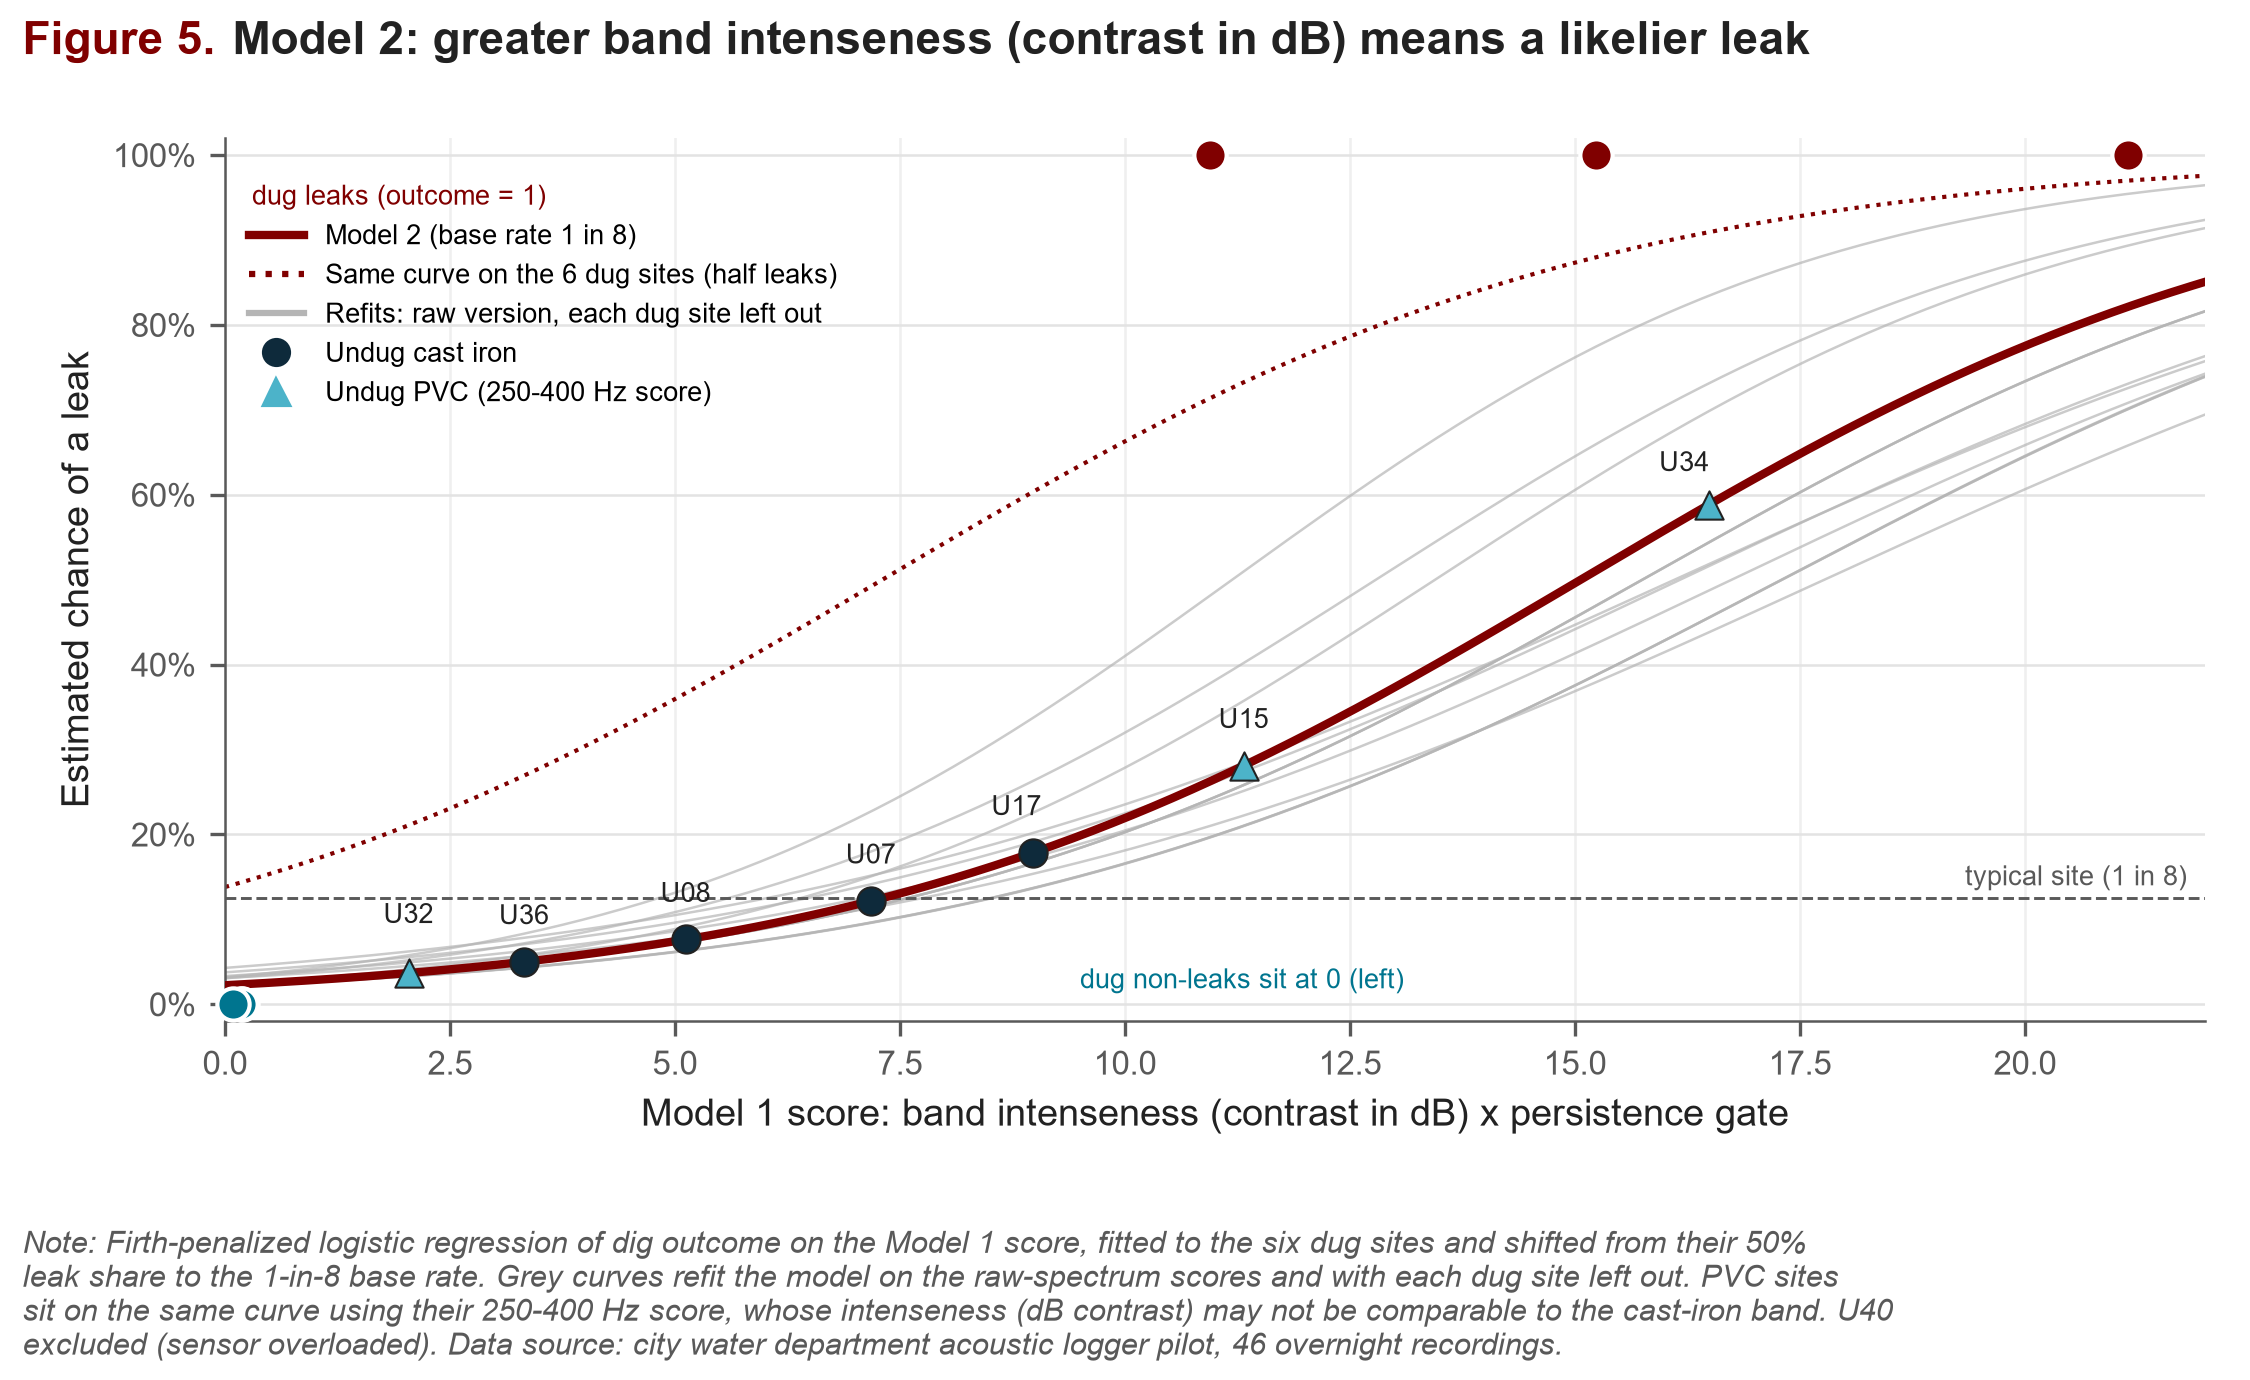
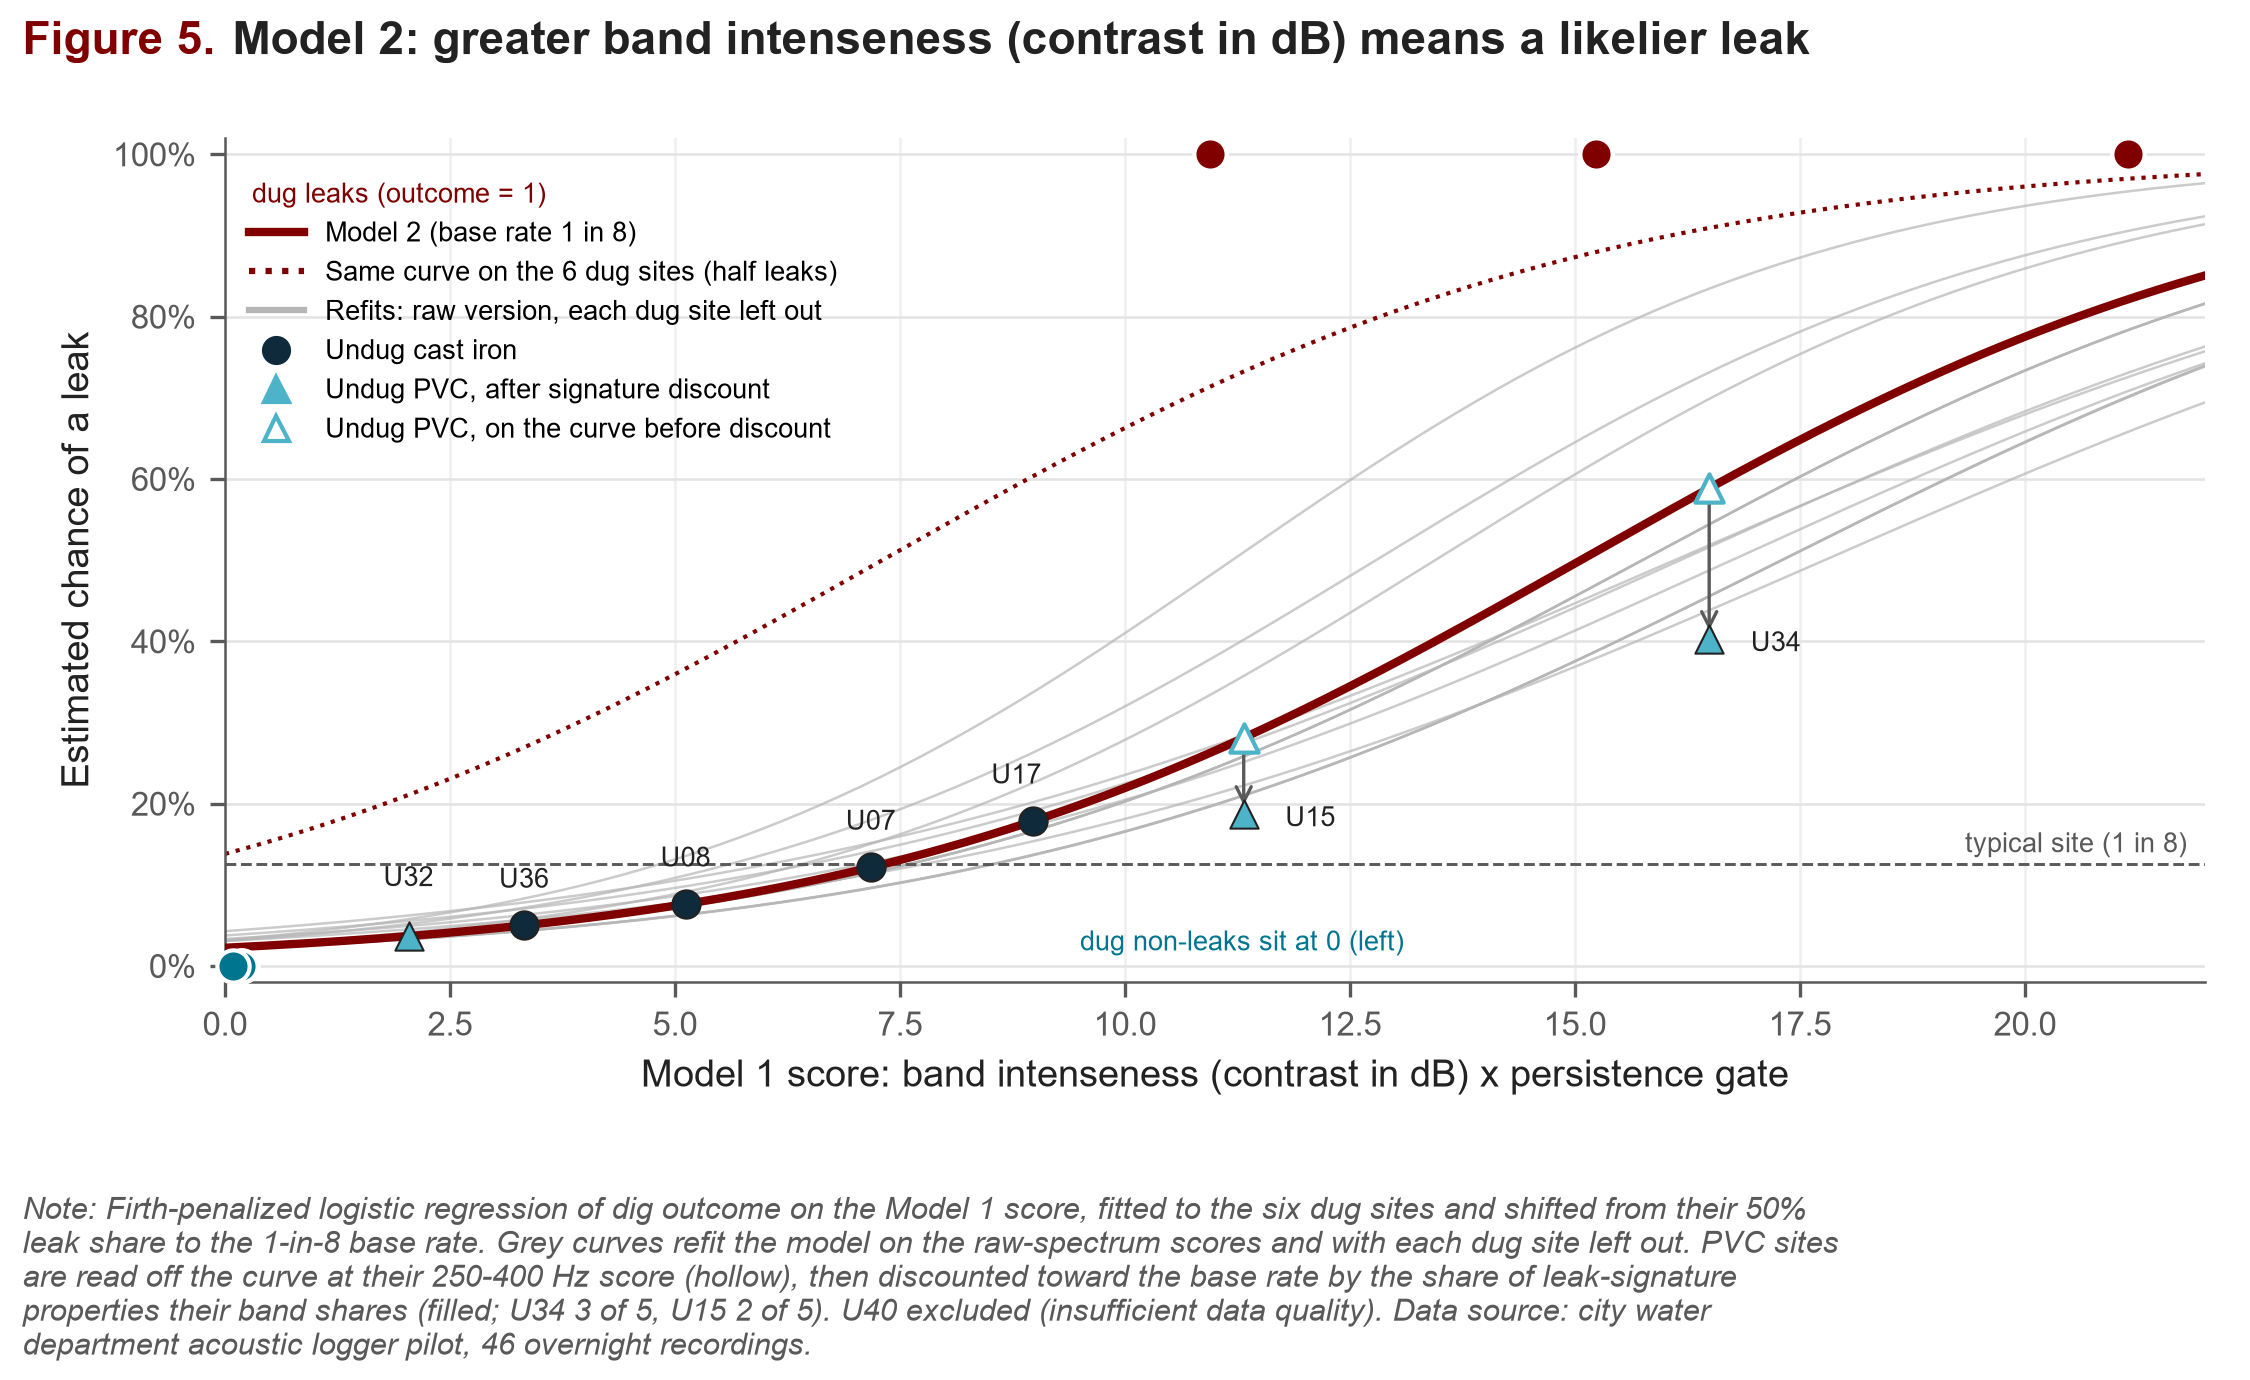
Apply PVC signature discount to Model 2; update Figures 5 and 6
- Model 2 PVC probabilities discounted by the Model 1 signature-match
  weight (U34 0.6, U15 0.4); undiscounted curve values kept
- Figure 5 shows PVC on-curve (hollow) and discounted (filled) values
- Figure 6 title, legend, and caption reflect the graded Model 1 and the
  shared PVC discount

diff --git a/src/plot_model2_results.py b/src/plot_model2_results.py
@@ -43,8 +43,8 @@ PIPE_COLORS = {'cast_iron': HEALTH_LAB_NAVY, 'pvc': HEALTH_LAB_LIGHT_TEAL}
 PIPE_NAMES = {'cast_iron': 'cast iron', 'pvc': 'PVC'}
 EXTRA_COMPARISON_SITES = ('U32', 'U35')
 S_CURVE_LABEL_OFFSETS = {'U32': (0, 12), 'U36': (0, 9), 'U08': (0, 9),
-                         'U07': (0, 9), 'U17': (-4, 9), 'U15': (0, 9),
-                         'U34': (-6, 8)}
+                         'U07': (0, 9), 'U17': (-4, 9), 'U15': (16, -3),
+                         'U34': (16, -3)}
 
 
 def _save(fig, file_stem):
@@ -93,6 +93,15 @@ def plot_s_curve(fits, scores, model2):
             va='bottom',
             color=LABEL_COLORS[NO_LEAK_LABEL])
     band_sites = model2[model2['score'] > 1]
+    for record in band_sites[band_sites['signature_weight'] < 1].itertuples():
+        ax.scatter(record.score, record.curve_probability, s=46,
+                   marker=PIPE_MARKERS[record.ranking], facecolor='white',
+                   edgecolor=PIPE_COLORS[record.ranking], linewidth=1,
+                   zorder=5)
+        ax.annotate('', xy=(record.score, record.confidence),
+                    xytext=(record.score, record.curve_probability),
+                    arrowprops=dict(arrowstyle='->', color=TEXT_GREY,
+                                    linewidth=0.8), zorder=4)
     for record in band_sites.itertuples():
         ax.scatter(record.score, record.confidence, s=46,
                    marker=PIPE_MARKERS[record.ranking],
@@ -119,7 +128,10 @@ def plot_s_curve(fits, scores, model2):
         Line2D([], [], marker='o', linestyle='', color=HEALTH_LAB_NAVY,
                label='Undug cast iron'),
         Line2D([], [], marker='^', linestyle='', color=HEALTH_LAB_LIGHT_TEAL,
-               label='Undug PVC (250-400 Hz score)')]
+               label='Undug PVC, after signature discount'),
+        Line2D([], [], marker='^', linestyle='', markerfacecolor='white',
+               color=HEALTH_LAB_LIGHT_TEAL,
+               label='Undug PVC, on the curve before discount')]
     ax.legend(handles=handles, loc='upper left', bbox_to_anchor=(0.0, 0.93),
               fontsize=6.5)
     bottom = add_title_and_note(
@@ -128,10 +140,11 @@ def plot_s_curve(fits, scores, model2):
         'Firth-penalized logistic regression of dig outcome on the Model 1 '
         'score, fitted to the six dug sites and shifted from their 50% leak '
         'share to the 1-in-8 base rate. Grey curves refit the model on the '
-        'raw-spectrum scores and with each dug site left out. PVC sites sit '
-        'on the same curve using their 250-400 Hz score, whose intenseness '
-        '(dB contrast) may not be comparable to the cast-iron band. U40 '
-        'excluded (sensor overloaded).')
+        'raw-spectrum scores and with each dug site left out. PVC sites are '
+        'read off the curve at their 250-400 Hz score (hollow), then '
+        'discounted toward the base rate by the share of leak-signature '
+        'properties their band shares (filled; U34 3 of 5, U15 2 of 5). U40 '
+        'excluded (insufficient data quality).')
     fig.subplots_adjust(top=0.9, bottom=bottom, left=0.1, right=0.98)
     return _save(fig, 'model2_fig5_s_curve')
 
@@ -172,20 +185,21 @@ def plot_model_comparison(model1, model2):
     ax.grid(axis='x', color='#EFEFEF')
     handles = [
         Line2D([], [], marker='o', color=HEALTH_LAB_NAVY,
-               label='Model 1: any persistent band counts the same'),
+               label='Model 1: presence first, then band quality'),
         Line2D([], [], marker='D', color=UCHICAGO_MAROON,
                label='Model 2: chance rises with intenseness (dB contrast)')]
     ax.legend(handles=handles, loc='lower right', fontsize=6.5)
     bottom = add_title_and_note(
-        fig, 6, 'The two models agree on the order, not on how sure to be',
+        fig, 6, 'Both models flag the same sites but rank them differently',
         'Markers are each model\'s main estimate; bars are its range across '
-        'analysis choices; dashed line is the 1-in-8 base rate. Model 1 '
-        'gives every persistent-band site the same chance (43%). Model 2 '
-        'grades them by band intenseness (contrast: band power minus the '
-        'mean of its neighboring bands, in dB): only U34, U15 and U17 stay '
+        'analysis choices; dashed line is the 1-in-8 base rate. Both apply '
+        'the same PVC signature discount. Model 1 gives every cast-iron site '
+        'with a persistent band 36-50% and grades within that by steadiness '
+        '(weighted 0.6) and intenseness (0.4), so those four sites lead. '
+        'Model 2 grades by intenseness alone (contrast in dB): U34 leads, '
+        'U17 and U15 stay '
         'above the base rate, U07 sits at it, and U08 and U36 fall below '
-        'it. Sites without a '
-        'persistent band are low under both models.')
+        'it. Sites without a persistent band are low under both models.')
     fig.subplots_adjust(top=0.9, bottom=bottom, left=0.25, right=0.98)
     return _save(fig, 'model2_fig6_model_comparison')
 

diff --git a/src/run_model_logistic.py b/src/run_model_logistic.py
@@ -13,7 +13,10 @@ log(prior odds / sample odds) so predictions refer to the 1-in-8 base rate
 Fits: {noise-floor-subtracted, raw} x {all 6 dug sites, each left out} =
 14 fits. Point estimate = full noise-floor fit; range = min-max across all
 14. PVC sites are placed on the same curve with their 250-400 Hz score
-(assumption A8); their contrast size may not be comparable to cast iron's.
+(assumption A8), then discounted toward the base rate by the same
+signature-match weight w used in Model 1's probabilities (U34 0.6, U15
+0.4): p = w x curve p + (1 - w) x base rate. The undiscounted curve value
+is kept as curve_probability.
 
 Outputs
 -------
@@ -133,6 +136,20 @@ def site_probabilities(scores, fits):
     return summary.reset_index()
 
 
+def apply_pvc_discount(summary, model1):
+    """Discount PVC sites by Model 1's signature-match weight w."""
+    weights = model1.set_index('clip_id')['signature_weight']
+    summary = summary.copy()
+    summary['signature_weight'] = summary['clip_id'].map(weights).fillna(
+        1.0)
+    summary['curve_probability'] = summary['confidence']
+    for column in ('confidence', 'probability_low', 'probability_high'):
+        summary[column] = (summary['signature_weight'] * summary[column]
+                           + (1 - summary['signature_weight'])
+                           * HISTORICAL_LEAK_RATE)
+    return summary
+
+
 def held_out_check(scores, fits):
     """Each dug site's probability from the fit that left it out."""
     rows = []
@@ -164,6 +181,9 @@ def write_summary(fits, summary, held_out, model1):
              f'{full["base_rate_shift"]:+.2f} on the log-odds scale.',
              f'- Slope across all 14 fits: {fits["slope"].min():.2f}-'
              f'{fits["slope"].max():.2f} per dB.',
+             '- PVC band sites discounted by the Model 1 signature-match '
+             'weight w (U34 0.6, U15 0.4); undiscounted curve values are in '
+             'curve_probability.',
              f'- Calibration: sum of confidence over {len(summary)} '
              f'scorable undug sites = {summary["confidence"].sum():.1f} vs. '
              f'{expected:.1f} expected at 1 in 8.', '',
@@ -193,7 +213,8 @@ def run_model_two():
     scores = pd.read_csv(MODEL1_SCORES_PATH)
     scores = scores[~scores['clip_id'].isin(ANALYSIS_EXCLUDED_CLIPS)]
     fits = fit_all(scores)
-    summary = site_probabilities(scores, fits)
+    summary = apply_pvc_discount(site_probabilities(scores, fits),
+                                 pd.read_csv(MODEL1_PROBABILITY_PATH))
     held_out = held_out_check(scores, fits)
     TABLE_DIR.mkdir(parents=True, exist_ok=True)
     fits.round(4).to_csv(MODEL2_FITS_PATH, index=False)

diff --git a/outputs/tables/model2_summary.md b/outputs/tables/model2_summary.md
@@ -3,7 +3,8 @@
 - U40 excluded: sensor overloaded (15% of samples clipped) and 1.2 s signal dropout, so its features are unreliable.
 - Main fit: slope 0.25 per dB; the curve crosses 50% (on the 6-site sample) at 7.3 dB. Base-rate shift -1.95 on the log-odds scale.
 - Slope across all 14 fits: 0.19-0.31 per dB.
-- Calibration: sum of confidence over 39 scorable undug sites = 2.1 vs. 4.9 expected at 1 in 8.
+- PVC band sites discounted by the Model 1 signature-match weight w (U34 0.6, U15 0.4); undiscounted curve values are in curve_probability.
+- Calibration: sum of confidence over 39 scorable undug sites = 1.8 vs. 4.9 expected at 1 in 8.
 
 ## Held-out dug sites (6-site sample scale; 50% = coin flip)
 
@@ -26,15 +27,15 @@
 
 | Site | Pipe | Score | Model 2 | Model 2 range | Model 1 |
 |---|---|---|---|---|---|
-| U34 | pvc | 16.5 | 59% | 21%-73% | 43% |
-| U15 | pvc | 11.3 | 28% | 8%-40% | 43% |
-| U17 | cast_iron | 9.0 | 18% | 14%-29% | 43% |
-| U07 | cast_iron | 7.2 | 12% | 7%-18% | 43% |
-| U08 | cast_iron | 5.1 | 8% | 5%-11% | 43% |
+| U34 | pvc | 16.5 | 40% | 18%-49% | 35% |
+| U15 | pvc | 11.3 | 19% | 11%-24% | 26% |
+| U17 | cast_iron | 9.0 | 18% | 14%-29% | 49% |
+| U07 | cast_iron | 7.2 | 12% | 7%-18% | 48% |
+| U08 | cast_iron | 5.1 | 8% | 5%-11% | 46% |
 | U36 | cast_iron | 3.3 | 5% | 4%-7% | 43% |
-| U32 | pvc | 2.0 | 4% | 2%-6% | 3% |
-| U03 | pvc | 0.7 | 3% | 1%-4% | 3% |
-| U35 | cast_iron | 0.3 | 2% | 2%-4% | 3% |
-| U16 | cast_iron | 0.2 | 2% | 2%-4% | 3% |
-| U27 | cast_iron | 0.1 | 2% | 2%-4% | 3% |
-| U11 | cast_iron | 0.1 | 2% | 2%-4% | 3% |
+| U32 | pvc | 2.0 | 4% | 2%-6% | 2% |
+| U03 | pvc | 0.7 | 3% | 1%-4% | 2% |
+| U35 | cast_iron | 0.3 | 2% | 2%-4% | 2% |
+| U16 | cast_iron | 0.2 | 2% | 2%-4% | 2% |
+| U27 | cast_iron | 0.1 | 2% | 2%-4% | 2% |
+| U11 | cast_iron | 0.1 | 2% | 2%-4% | 2% |
